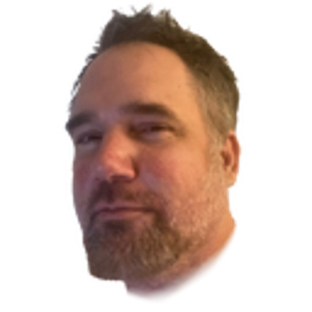
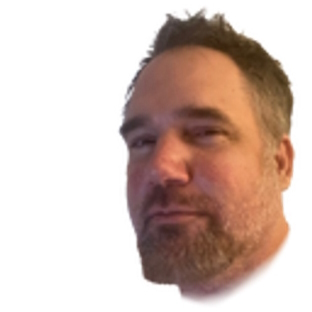
commit

diff --git a/index.html b/index.html
@@ -94,7 +94,7 @@ h1 {
     <main>
       <header>
         <figure>
-          <img src="ronnie.jpg" alt="Headshot of Ronnie Smith" loading="lazy" width="312" height="312" class=round>
+          <img src="ronnie.jpg" alt="Headshot of Ronnie Smith" loading="lazy" width="112" height="112" class=round>
           <figcaption class=text-first>
             <strong>Ronnie Smith</strong><br> 
             Drywall Repair | Painter
